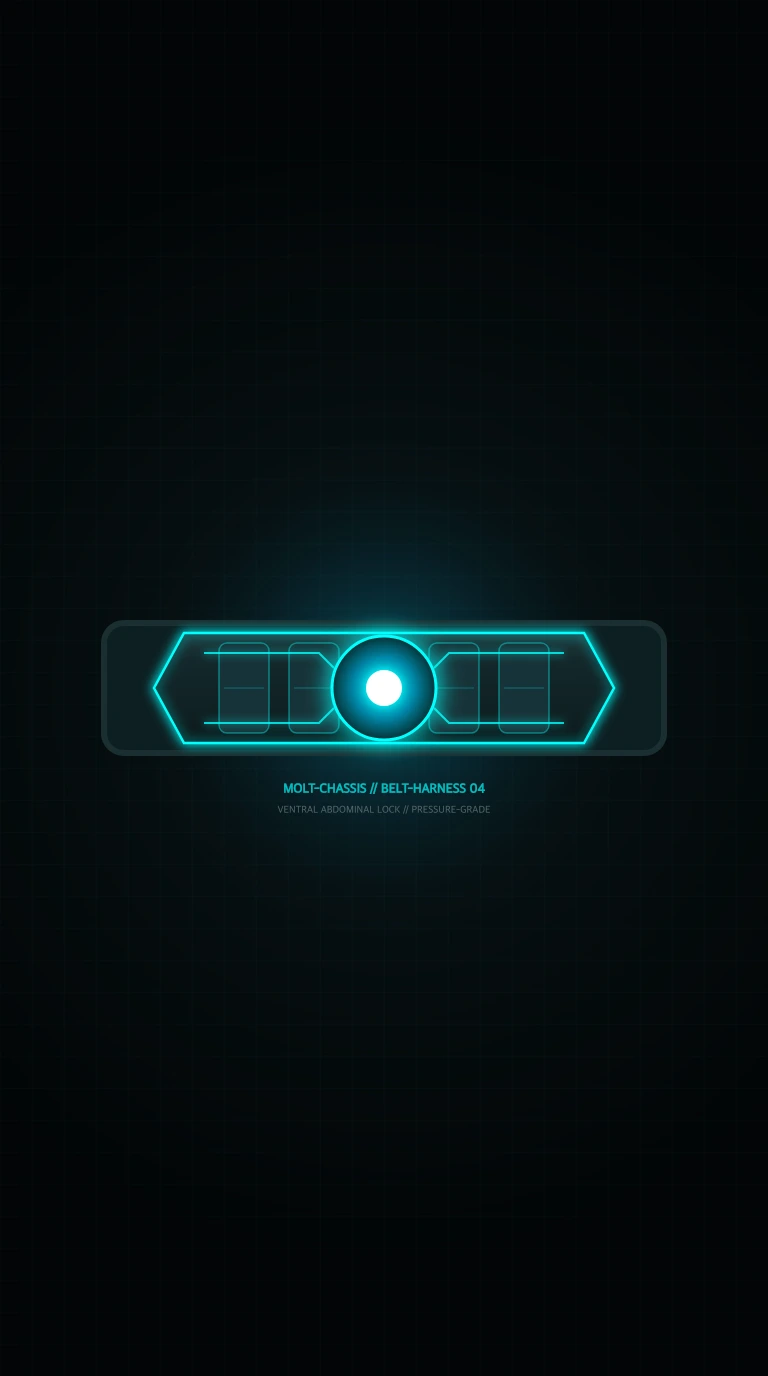
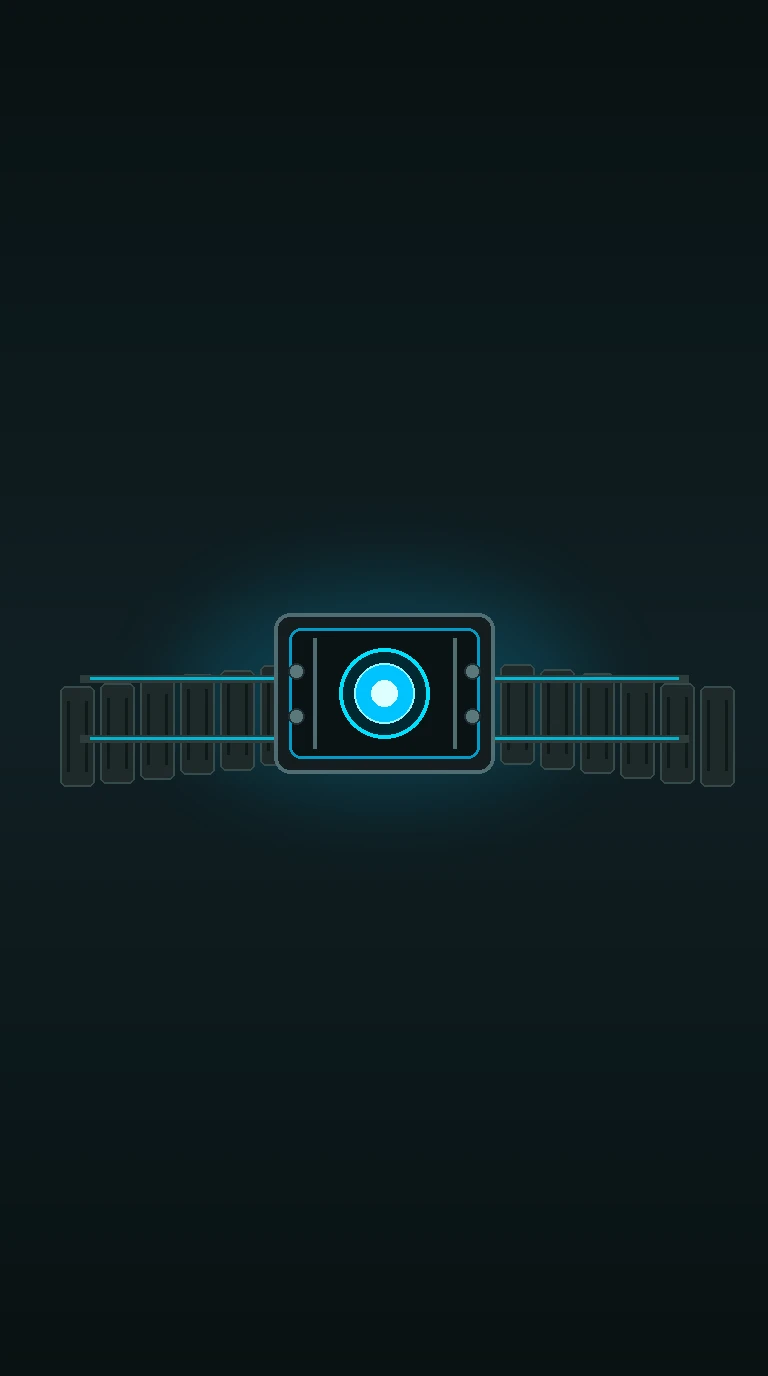
feat: add equipment set creator skill, implement automated catalog synchronization, and include new belt equipment items

Changed region(s): [[0.0625, 0.4375, 0.9688, 0.5938]]

diff --git a/src/lib/equipment-seed-data.ts b/src/lib/equipment-seed-data.ts
@@ -303,6 +303,18 @@ export const INITIAL_EQUIPMENT_CATALOG: EquipmentCatalogSeed[] = [
     sortOrder: 20,
   }),
   piece({
+    id: 'a1000000-0000-4000-8000-000000000016',
+    slug: 'silt-tension-vent-sash',
+    name: 'Silt-Tension Vent Sash',
+    flavorText: 'Woven from flexible hydrothermal cords. Keeps the abdominal plates stable during rapid descent.',
+    visualType: 'belt',
+    rarity: 'uncommon',
+    primaryStat: 27,
+    affixes: [{ stat: 'defense', value: 4 }],
+    uniquePower: null,
+    sortOrder: 21,
+  }),
+  piece({
     id: 'a1000000-0000-4000-8000-000000000015',
     slug: 'abyssal-clasp-girdle',
     name: 'Abyssal Clasp Girdle',
@@ -312,7 +324,34 @@ export const INITIAL_EQUIPMENT_CATALOG: EquipmentCatalogSeed[] = [
     primaryStat: 46,
     affixes: [{ stat: 'speed', value: 4 }],
     uniquePower: null,
-    sortOrder: 21,
+    sortOrder: 22,
+  }),
+  piece({
+    id: 'a1000000-0000-4000-8000-000000000017',
+    slug: 'hydrostatic-girdle-lattice',
+    name: 'Hydrostatic Girdle Lattice',
+    flavorText: 'Pressure-sealed titanium ribs distribute benthic torque evenly across the chassis core.',
+    visualType: 'belt',
+    rarity: 'epic',
+    primaryStat: 70,
+    affixes: [{ stat: 'intelligence', value: 8 }],
+    uniquePower: null,
+    sortOrder: 23,
+  }),
+  piece({
+    id: 'a1000000-0000-4000-8000-000000000018',
+    slug: 'core-lock-vent-harness',
+    name: 'Core-Lock Vent Harness',
+    flavorText: 'Legendary ventral plating. The deep core does not buckle.',
+    visualType: 'belt',
+    rarity: 'legendary',
+    primaryStat: 92,
+    affixes: [{ stat: 'defense', value: 10 }],
+    uniquePower: {
+      name: 'Zero-Strain Bulkhead',
+      description: 'When abdominal torque peaks, internal pressure vents automatically. Your core never fractures under sudden load.',
+    },
+    sortOrder: 24,
   }),
 ]
 
@@ -333,6 +372,7 @@ export const STARTER_EQUIPMENT_CATALOG_IDS: string[] = [
   'a1000000-0000-4000-8000-000000000006', // synapse-shear claws (legendary)
   'a1000000-0000-4000-8000-000000000009', // oracle dome lattice (legendary)
   'a1000000-0000-4000-8000-000000000011', // hydrostatic seal plate (legendary)
+  'a1000000-0000-4000-8000-000000000018', // core-lock vent harness (legendary)
 ]
 
 export function catalogSeedInsertValues(item: EquipmentCatalogSeed) {

diff --git a/src/lib/server/api.ts b/src/lib/server/api.ts
@@ -25,7 +25,11 @@ import {
   localDateString,
   type AlignmentTaskItem,
 } from '../alignment-tasks'
-import { STARTER_EQUIPMENT_CATALOG_IDS } from '../equipment-seed-data'
+import {
+  INITIAL_EQUIPMENT_CATALOG,
+  STARTER_EQUIPMENT_CATALOG_IDS,
+  catalogSeedInsertValues,
+} from '../equipment-seed-data'
 import {
   VAULT_SIZE,
   chassisTypeImageUrl,
@@ -2189,10 +2193,47 @@ async function loadChassisPayload(dbClient: Db, userId: string): Promise<{
   totals: LoadoutTotals
   vaultSize: number
 }> {
-  const catalogRows = await dbClient
+  let catalogRows = await dbClient
     .select()
     .from(equipmentCatalog)
     .orderBy(asc(equipmentCatalog.sortOrder))
+
+  // Auto-sync any seed catalog entries missing from the database
+  const existingIds = new Set(catalogRows.map((r) => r.id))
+  const missingSeeds = INITIAL_EQUIPMENT_CATALOG.filter((item) => !existingIds.has(item.id))
+
+  if (missingSeeds.length > 0) {
+    try {
+      for (const item of missingSeeds) {
+        const values = catalogSeedInsertValues(item)
+        await dbClient
+          .insert(equipmentCatalog)
+          .values(values)
+          .onConflictDoUpdate({
+            target: equipmentCatalog.id,
+            set: {
+              slug: values.slug,
+              name: values.name,
+              flavorText: values.flavorText,
+              category: values.category,
+              rarity: values.rarity,
+              visualType: values.visualType,
+              primaryStat: values.primaryStat,
+              affixes: values.affixes,
+              uniquePower: values.uniquePower,
+              imageUrl: values.imageUrl,
+              sortOrder: values.sortOrder,
+            },
+          })
+      }
+      catalogRows = await dbClient
+        .select()
+        .from(equipmentCatalog)
+        .orderBy(asc(equipmentCatalog.sortOrder))
+    } catch (e) {
+      console.warn('[loadChassisPayload] Auto-sync catalog warning:', e)
+    }
+  }
 
   let gearRows = await dbClient
     .select()

diff --git a/src/lib/equipment-seed-data.test.ts b/src/lib/equipment-seed-data.test.ts
@@ -13,20 +13,20 @@ import {
 describe('equipment catalog seed', () => {
   it('keeps a small original stash with at least two pieces per hardpoint', () => {
     expect(INITIAL_EQUIPMENT_CATALOG.length).toBeGreaterThanOrEqual(12)
-    expect(INITIAL_EQUIPMENT_CATALOG.length).toBeLessThanOrEqual(25)
+    expect(INITIAL_EQUIPMENT_CATALOG.length).toBeLessThanOrEqual(30)
     for (const slot of EQUIPMENT_CATEGORIES) {
       const count = INITIAL_EQUIPMENT_CATALOG.filter((item) => item.category === slot).length
       expect(count, `${slot} count`).toBeGreaterThanOrEqual(2)
     }
   })
 
-  it('mixes rarities and seats two to three legendaries with unique powers', () => {
+  it('mixes rarities and seats two to four legendaries with unique powers', () => {
     const rarities = new Set(INITIAL_EQUIPMENT_CATALOG.map((item) => item.rarity))
     expect(rarities.has('common')).toBe(true)
     expect(rarities.has('legendary')).toBe(true)
     const legendaries = INITIAL_EQUIPMENT_CATALOG.filter((item) => item.rarity === 'legendary')
     expect(legendaries.length).toBeGreaterThanOrEqual(2)
-    expect(legendaries.length).toBeLessThanOrEqual(3)
+    expect(legendaries.length).toBeLessThanOrEqual(4)
     for (const item of legendaries) {
       expect(item.uniquePower?.name).toBeTruthy()
       expect(item.uniquePower?.description).toBeTruthy()

diff --git a/.agents/skills/equipment-set-creator/SKILL.md b/.agents/skills/equipment-set-creator/SKILL.md
@@ -1,0 +1,169 @@
+---
+name: equipment-set-creator
+description: >-
+  End-to-end pipeline for designing, illustrating, generating, converting, and registering cohesive Diablo-inspired benthic equipment sets for the Moltology chassis configurator and equipment vault. Covers all 7 equipment visual hardpoints (helm, carapace, pincer, hammer, antennae, greaves, belt), set thematic matrices, batch prompt generation, image conversion, S3 synchronization, and Drizzle/loadout catalog registration.
+---
+
+# Moltology Equipment Set Creator Pipeline
+
+This skill guides the design, visual generation, asset optimization, and codebase registration of **cohesive, themed equipment sets** for the Moltology Chassis Configurator (`/chassis`) and Equipment Vault.
+
+---
+
+## ◈ 1. Equipment Philosophy & Set-First Architecture
+
+In Moltology, individual equipment pieces do not exist in isolation. They are designed and generated **in complete, cohesive sets at once** to guarantee visual harmony, identical material rendering, matching lighting palettes, and unified benthic lore.
+
+### The Mandatory Whole-Set Generation Rule
+When invoked to create new equipment or a new theme, the agent **must design and generate all 7 pieces of the set together** in a single run:
+1. **5 Core Armor Pieces**: Head (`helm`), Torso (`carapace`), Waist (`belt`), Legs (`greaves`), and Sensory Crown (`antennae`).
+2. **2 Distinct Weapons**:
+   * **Mandatory Claw Gauntlet (`pincer`)**: The core carcinized weapon of Moltology — crushing lobster/crab claws with hydraulic torque and serrated teeth.
+   * **Thematic Alternative Weapon (`hammer` or custom blunt/piercing weapon)**: A secondary weapon archetype forged in the exact set theme (e.g., Silt Maul / War Hammer, Abyssal Harpoon Lance, Hydrothermal Dredge Flail, or Trench Glaive) that equips in the `claws` combat slot.
+
+### The 7 Canonical Hardpoint Slots & Visual Types
+
+| # | Visual Type (`visualType`) | Hardpoint Slot (`category`) | Archetype Role & Set Requirement |
+|---|---|---|---|
+| 1 | **`helm`** | `head` | Biomechanical deep-sea helm, visor, or crown plate with glowing ocular sensor slits. |
+| 2 | **`carapace`** | `carapace` | Sub-abyssal torso armor / cuirass with layered chitin, titanium rib bulkheads, and sternum energy conduits. |
+| 3 | **`pincer`** | `claws` (Slashing / Grip) | **[Mandatory Weapon 1]** Heavy hydraulic crushing lobster/crab claw gauntlet. |
+| 4 | **`hammer`** | `claws` (Blunt / Alternative) | **[Mandatory Weapon 2]** Thematic secondary weapon (e.g. Silt Maul, Hydro-Hammer, Dredge Anchor). |
+| 5 | **`antennae`** | `antennae` | Neural sensor crown with sweeping articulated chitin feelers and sonar radar crystals. |
+| 6 | **`greaves`** | `legs` | Articulated hydraulic leg armor with knee shock pistons and clawed silt-treads. |
+| 7 | **`belt`** | `belt` | Heavy abdominal girdle / ventral cincture with an interlocking titanium power clasp. |
+
+---
+
+## ◈ 2. The Canonical Reference Set (Set 01 — Abyssal Chitin & Volcanic Basalt)
+
+Use Set 01 ([`public/images/chassis/`](file:///Users/mylesstupp/Development/moltology/public/images/chassis/)) as the baseline artistic and technical reference model for all subsequent sets:
+
+* **Primary Material**: Calcified deep-abyssal crustacean chitin (obsidian-black and deep oceanic teal-grey with natural oceanic patina and micro-barnacles).
+* **Reinforced Metal / Framework**: Heavy darkened titanium alloy bulkheads, braided hydraulic pressure tubes, and articulated rivets.
+* **Energy Conduits & Sensors**: Glowing cyan/aquamarine bioluminescence (`#00c3ff` / `#22d3ee`) along core channels, ocular slits, and fluid reservoirs.
+* **Atmospheric Framing**: 9:16 vertical aspect ratio, centered item render, dark charcoal-slate abyssal stone backdrop, subtle cyan rim lighting, soft depth vignette.
+* **Rendering Style**: Diablo-inspired 3D game inventory asset render (high-fidelity PBR textures, specular highlights, ray-traced contact shadows, volumetric glow, no 2D flat vector art, no UI borders or text).
+* **Dual Weapon Pairings in Set 01**:
+  - *Primary Claw*: **Synapse-Shear Claws / Training Pincer** (`pincer.webp`) — Heavy serrated crushing claw with glowing cyan hydraulic fluid.
+  - *Companion Weapon*: **Tideforge Hammer / Silt Maul** (`hammer.webp`) — Massive basalt warhammer with active hydrothermal steam vents.
+
+---
+
+## ◈ 3. Thematic Set Generation Matrix
+
+When creating a new equipment set, first establish the **Set Thematic Matrix** before writing prompts:
+
+```
+Set Definition Example:
+- Set Name: "Hydrothermal Magma Vent Set"
+- Visual Theme: Geothermal benthic forge, superheated oceanic crustacean armor
+- Primary Chitin Material: Black volcanic obsidian crust with glowing orange micro-fissures
+- Secondary Metal / Alloy: Heat-treated oxidized bronze and iron hydraulic fittings
+- Bioluminescent / Energy Glow: Molten hydrothermal orange/amber (#f59e0b / #ff4500)
+- Primary Claw Weapon: Magma-Pincer Gauntlet (Serrated obsidian shears)
+- Companion Weapon: Hydrothermal Dredge Anchor / Cinder Flail (Blunt impact)
+- Special FX: Faint superheated steam plumes, glowing heat sink vents
+```
+
+### Potential Thematic Set Archetypes & Dual-Weapon Combinations
+1. **Abyssal Trench / Void Set**: Ultra-deep midnight black matte chitin, dark gunmetal, deep violet / UV bioluminescence (`#a855f7`).
+   * *Claw*: Void-Shear Pincer Gauntlet
+   * *Companion Weapon*: Benthic Harpoon Lance
+2. **Hydrostatic Nacre / Pearl Set**: Iridescent pearl white chitin, polished silver titanium, pale teal cyan pulse glow (`#67e8f9`).
+   * *Claw*: Nacreous Scissor Claws
+   * *Companion Weapon*: Hydro-Resonance Silt Mace
+3. **Ascendant Gold / Sol-Benthic Set**: Sunken gold-plated carapace ribs, dark slate base, radiant amber/golden conduits (`#fbbf24`).
+   * *Claw*: Solar Apex Pincers
+   * *Companion Weapon*: Laser-Heated Trench Glaive
+4. **Bioluminescent Kelp / Viridian Set**: Deep emerald calcified shell, weathered copper fittings, vivid bioluminescent lime-green channels (`#39ff14`).
+   * *Claw*: Hydraulic Mantis Slasher Claw
+   * *Companion Weapon*: Silt-Breaker Pneumatic Drill
+
+---
+
+## ◈ 4. Prompt Engineering Guidelines for `generate_image`
+
+Always generate items with **`AspectRatio: '9:16'`** using Antigravity `generate_image`.
+
+### Standard Prompt Structure
+```
+Diablo-style 3D inventory item render of a [SET THEME] [ITEM NAME] ([SLOT TYPE]). [DETAILED DESCRIPTION OF MATERIALS, CHITIN PLATES, HYDRAULICS, AND ENERGY CONDUITS]. Features [SPECIFIC SLOTS DETAILS AND GLOWING CONDUIT PATHS]. Centered vertically on a clean dark abyssal slate background with subtle [ACCENT COLOR] rim lighting and atmospheric depth vignette. Highly detailed textures, game asset icon, no text, no UI borders.
+```
+
+### Prompt Templates for All 7 Slots
+
+#### 1. Helm (`helm`)
+```
+Diablo-style 3D inventory item render of a [Set Name] Carapace Helm. An armored deep-sea biomechanical helmet and visor forged from [Primary Chitin Material] and [Secondary Metal]. Features glowing [Glow Color] bioluminescent ocular sensor slits, hydraulic pressure seals, ribbed protective plates, and subtle [Glow Color] conduit lines. Centered vertically on a clean dark abyssal slate background with subtle [Glow Color] rim lighting and atmospheric depth vignette. Highly detailed textures, game asset icon, no text, no UI borders.
+```
+
+#### 2. Carapace (`carapace`)
+```
+Diablo-style 3D inventory item render of [Set Name] Carapace Chest Armor. Heavy deep-sea biomechanical cuirass crafted from layered [Primary Chitin Material] and [Secondary Metal]. Featuring glowing [Glow Color] bioluminescent power channels down the sternum, ribbed hydraulic shock plates, articulated ribcage bulkheads, and deep ocean patina. Centered vertically on a clean dark abyssal slate background with subtle [Glow Color] rim lighting and atmospheric depth vignette. Highly detailed textures, game asset icon, no text, no UI borders.
+```
+
+#### 3. Pincer (`pincer`)
+```
+Diablo-style 3D inventory item render of a [Set Name] Crush Pincer Gauntlet. A massive mechanical deep-sea lobster crushing claw weapon forged from [Primary Chitin Material] and [Secondary Metal] reinforced pistons. Features jagged serrated inner clamping edges, glowing [Glow Color] bioluminescent hydraulic power fluid reservoirs, pressure conduits, and heavy articulating torque joints. Centered vertically on a clean dark abyssal slate background with subtle [Glow Color] rim lighting and atmospheric depth vignette. Highly detailed textures, game asset icon, no text, no UI borders.
+```
+
+#### 4. Hammer (`hammer`)
+```
+Diablo-style 3D inventory item render of a [Set Name] War Maul. Colossal heavy warhammer head carved from [Primary Chitin Material] bound in [Secondary Metal]. Features glowing [Glow Color] energy vents emitting faint steam, high-pressure pneumatic impact pistons, wrapped titanium haft with crustacean plating grip. Centered vertically on a clean dark abyssal slate background with subtle [Glow Color] rim lighting and atmospheric depth vignette. Highly detailed textures, game asset icon, no text, no UI borders.
+```
+
+#### 5. Antennae (`antennae`)
+```
+Diablo-style 3D inventory item render of a [Set Name] Sensor Array and Neural Antennae Crown. Intricate abyssal headpiece with dual sweeping biomechanical crustacean antennae feelers crafted from [Primary Chitin Material] and flexible [Secondary Metal] ligaments. Features glowing [Glow Color] fiber-optic sensor nodes, bioluminescent nodes along the antenna tips, sonar transducer coils, and benthic radar crystals. Centered vertically on a clean dark abyssal slate background with subtle [Glow Color] rim lighting and atmospheric depth vignette. Highly detailed textures, game asset icon, no text, no UI borders.
+```
+
+#### 6. Greaves (`greaves`)
+```
+Diablo-style 3D inventory item render of [Set Name] Greaves and Articulated Leg Armor. Heavy deep-sea biomechanical leg armor and boots crafted from articulated [Primary Chitin Material] plates and [Secondary Metal] pistons. Features hydraulic knee shock absorbers, reinforced clawed silt-treads, glowing [Glow Color] bioluminescent pulse conduits down the shins, and hydrodynamic maneuvering fins. Centered vertically on a clean dark abyssal slate background with subtle [Glow Color] rim lighting and atmospheric depth vignette. Highly detailed textures, game asset icon, no text, no UI borders.
+```
+
+#### 7. Belt (`belt`)
+```
+Diablo-style 3D inventory item render of a [Set Name] Chitin Cincture and Abyssal Clasp Girdle. Heavy deep-sea biomechanical waist belt and abdominal girdle armor forged from articulated [Primary Chitin Material] plates and [Secondary Metal] links. Features a glowing [Glow Color] bioluminescent hydraulic locking power buckle, pressure-sealed flexible conduit cords along the waistline, and deep oceanic patina. Centered vertically on a clean dark abyssal slate background with subtle [Glow Color] rim lighting and atmospheric depth vignette. Highly detailed textures, game asset icon, no text, no UI borders.
+```
+
+---
+
+## ◈ 5. Conversion, Storage & Deployment Pipeline
+
+### 1. Image Conversion to WebP
+Generated master outputs are converted to optimized WebP format (target size: 768×1376, 88–90% quality, ~100–200 KB) using Python PIL:
+
+```python
+from PIL import Image
+
+im = Image.open("generated_item.jpg")
+im.save("public/images/chassis/item_name.webp", "WEBP", quality=90, method=6)
+```
+
+### 2. S3 Asset Synchronization
+Sync all new gear assets to the Neon S3 public bucket:
+```bash
+npm run s3:sync
+npm run s3:verify
+```
+
+### 3. Code & Catalog Registration
+When introducing new equipment pieces or full sets:
+1. Register catalog items in [`src/lib/equipment-seed-data.ts`](file:///Users/mylesstupp/Development/moltology/src/lib/equipment-seed-data.ts) with appropriate stats, rarity, affixes, and unique powers.
+2. Verify visual type and slot mappings in [`src/lib/chassis-loadout.ts`](file:///Users/mylesstupp/Development/moltology/src/lib/chassis-loadout.ts).
+3. If running on a live database branch, seed the catalog:
+   ```bash
+   DATABASE_URL=... npx tsx scripts/seed-chassis-only.ts
+   ```
+
+---
+
+## ◈ 6. Verification Checklist
+
+- [ ] **7/7 Set Completeness**: Helm, Carapace, Pincer, Hammer, Antennae, Greaves, Belt.
+- [ ] **Visual Consistency**: Unified materials, lighting direction, glow hue, and slate backdrop.
+- [ ] **Asset Validation**: 9:16 aspect ratio, valid WebP header, responsive loading.
+- [ ] **Unit Tests**: `npm run test:core` passes all chassis and seed validation tests.
+- [ ] **Live UI Check**: Inspect `/chassis` in the browser to ensure zero 404s, clean card rendering in both equipped paperdoll and vault grid cells.
